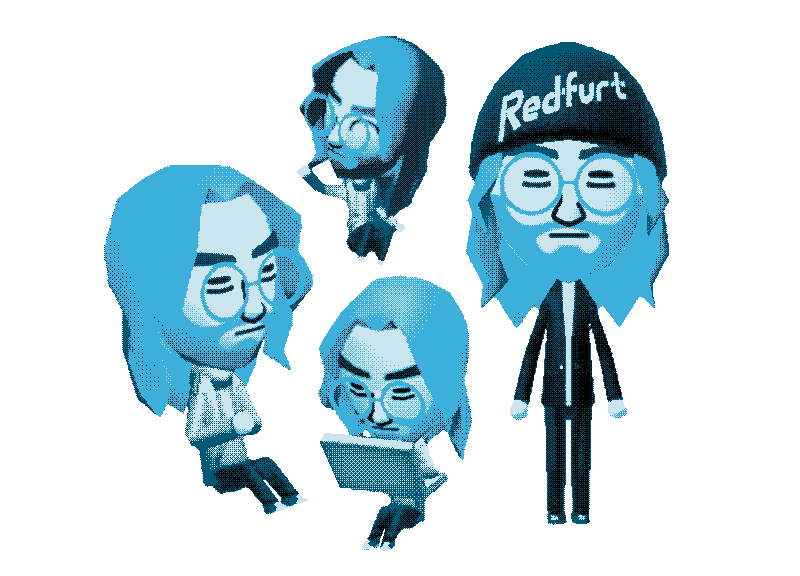
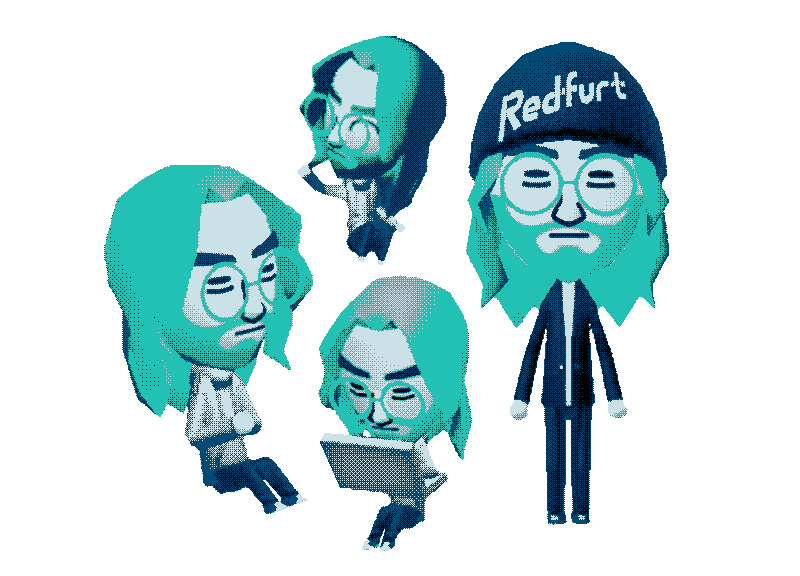
editing theme palettes

Changed region(s): [[0.125, 0.25, 0.8438, 0.7812], [0.375, 0.0625, 0.5312, 0.3125]]

diff --git a/src/assets/sass/_variables.scss b/src/assets/sass/_variables.scss
@@ -69,11 +69,11 @@ html[data-theme="codec"] {
 }
 
 html[data-theme="aquarium"] {
-  --color-body: #005874;
-  --color-background: #cae5ee;
-  --color-primary: #3cb0db;
+  --color-body: #004b74;
+  --color-background: #cbe1e8;
+  --color-primary: #23c1b3;
   --color-accent: var(--color-body);
-  --color-glow: hsla(194, 100%, 40%, 0.565);
+  --color-glow: #23c1b390;
 }
 
 html[data-theme="sepia"] {
@@ -87,7 +87,7 @@ html[data-theme="sepia"] {
 html[data-theme="strawberry"] {
   --color-body: #e54b4b;
   --color-background: #f7ebe8;
-  --color-primary: #ffa987;
+  --color-primary: #ffa565;
   --color-accent: var(--color-body);
   --color-glow: #f8706090;
 }
@@ -95,9 +95,9 @@ html[data-theme="strawberry"] {
 html[data-theme="midnight"] {
   --color-body: #d5cae4;
   --color-background: #1b1725;
-  --color-primary: #66528a;
+  --color-primary: #725a97;
   --color-accent: var(--color-body);
-  --color-glow: #534b6290;
+  --color-glow: #725a9790;
 }
 
 /* fonts */

diff --git a/src/assets/sass/style.scss b/src/assets/sass/style.scss
@@ -30,6 +30,9 @@ body {
   font-family: $font-text;
   font-size: 1.2rem;
 
+  transition: color, background-color 0.2s;
+  // transition-property: ;
+
   // background-image: url("../img/star.svg");
 
   .site-holder {
